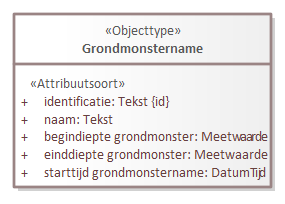
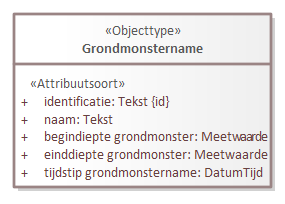
Conceptualmodel-MilieuhygienischbodemonderzoekSAD-0.2-1-20230126-20230418-131619

Changed region(s): [[0.1404, 0.8235, 0.9544, 0.8824]]

diff --git a/data/SAD-cat.msword.html b/data/SAD-cat.msword.html
@@ -15,7 +15,7 @@
    <body>
       <p>Conceptual model/Milieuhygienisch bodemonderzoek SAD/20230126</p>
       <p>Imvertor: 2.0.0</p>
-      <p>Model release: Conceptualmodel-MilieuhygienischbodemonderzoekSAD-0.2-1-20230126-20230418-130655</p>
+      <p>Model release: Conceptualmodel-MilieuhygienischbodemonderzoekSAD-0.2-1-20230126-20230418-131619</p>
       <hr>
       <section>
          <h1>Artikel 1 Definitie van registratieobject, entiteiten en attributen</h1>
@@ -3528,8 +3528,8 @@
                            </tr>
                         </tbody>
                      </table>
-                     </section><a class="anchor" id="detail_attribute_Model_Grondmonstername_starttijdgrondmonstername"></a><section id="detail_attribute_Model_Grondmonstername_starttijdgrondmonstername">
-                     <h4>  starttijd grondmonstername</h4>
+                     </section><a class="anchor" id="detail_attribute_Model_Grondmonstername_tijdstipgrondmonstername"></a><section id="detail_attribute_Model_Grondmonstername_tijdstipgrondmonstername">
+                     <h4>  tijdstip grondmonstername</h4>
                      
                      <table style="width: 100%;">
                         <colgroup style="width: 30%;"></colgroup>

diff --git a/data/SAD-cat.respec.html b/data/SAD-cat.respec.html
@@ -3504,8 +3504,8 @@
                   </tr>
                </tbody>
             </table>
-            </section><a class="anchor" id="detail_attribute_Model_Grondmonstername_starttijdgrondmonstername"></a><section id="detail_attribute_Model_Grondmonstername_starttijdgrondmonstername">
-            <h4>  starttijd grondmonstername</h4>
+            </section><a class="anchor" id="detail_attribute_Model_Grondmonstername_tijdstipgrondmonstername"></a><section id="detail_attribute_Model_Grondmonstername_tijdstipgrondmonstername">
+            <h4>  tijdstip grondmonstername</h4>
             
             <table style="width: 100%;">
                <colgroup style="width: 30%;"></colgroup>
